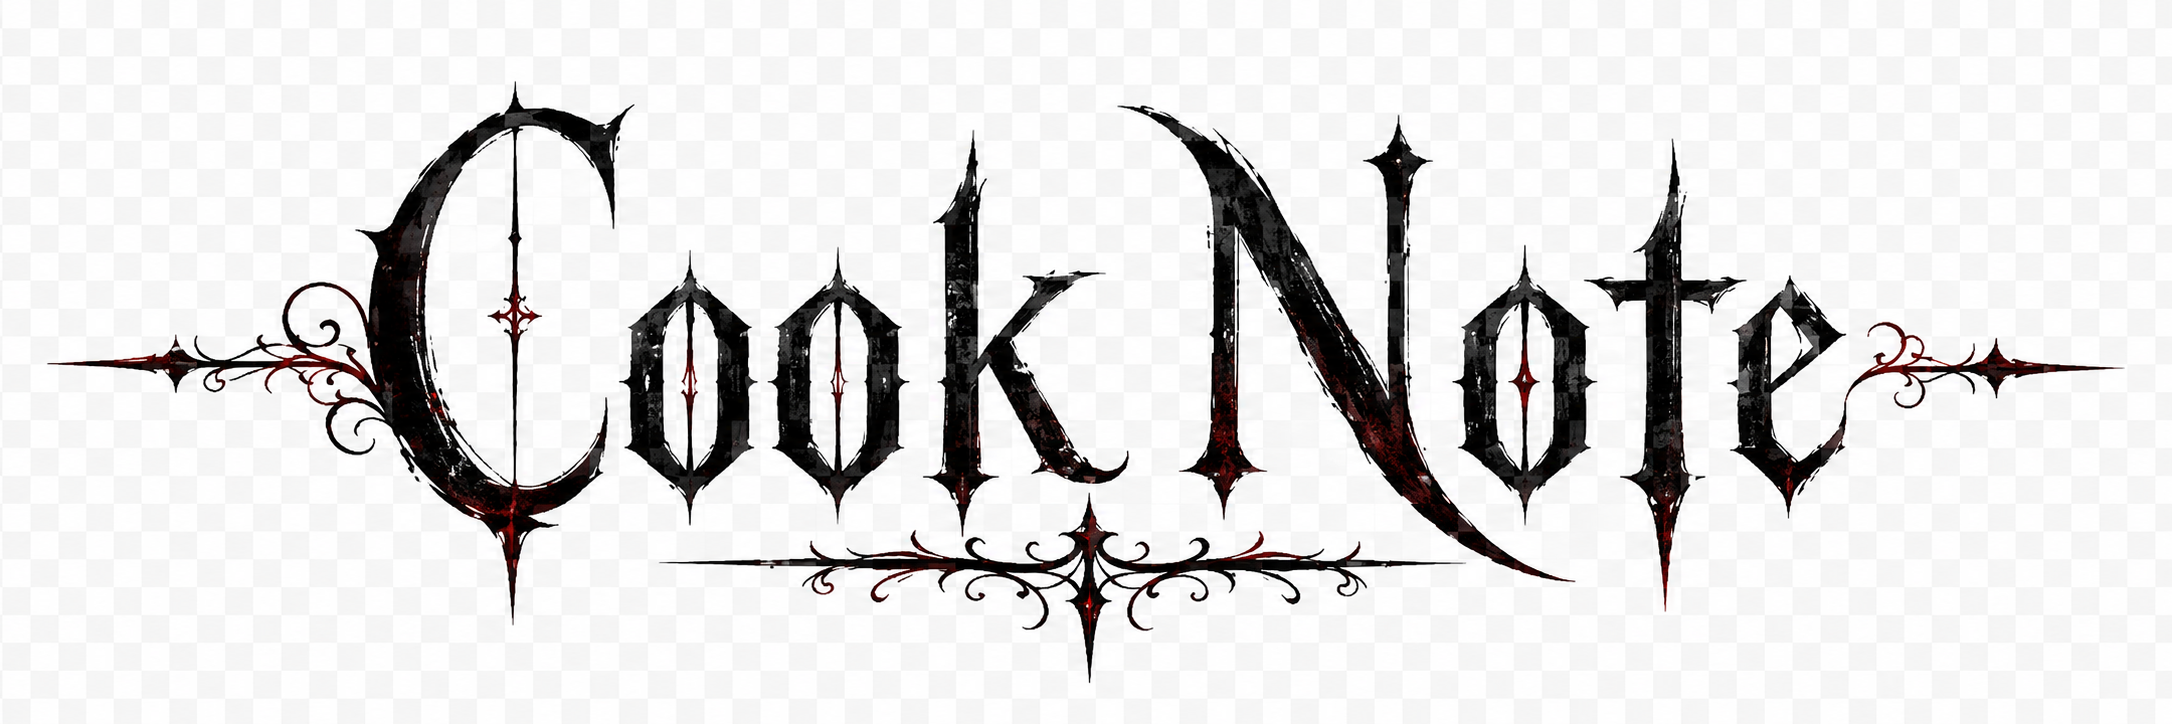
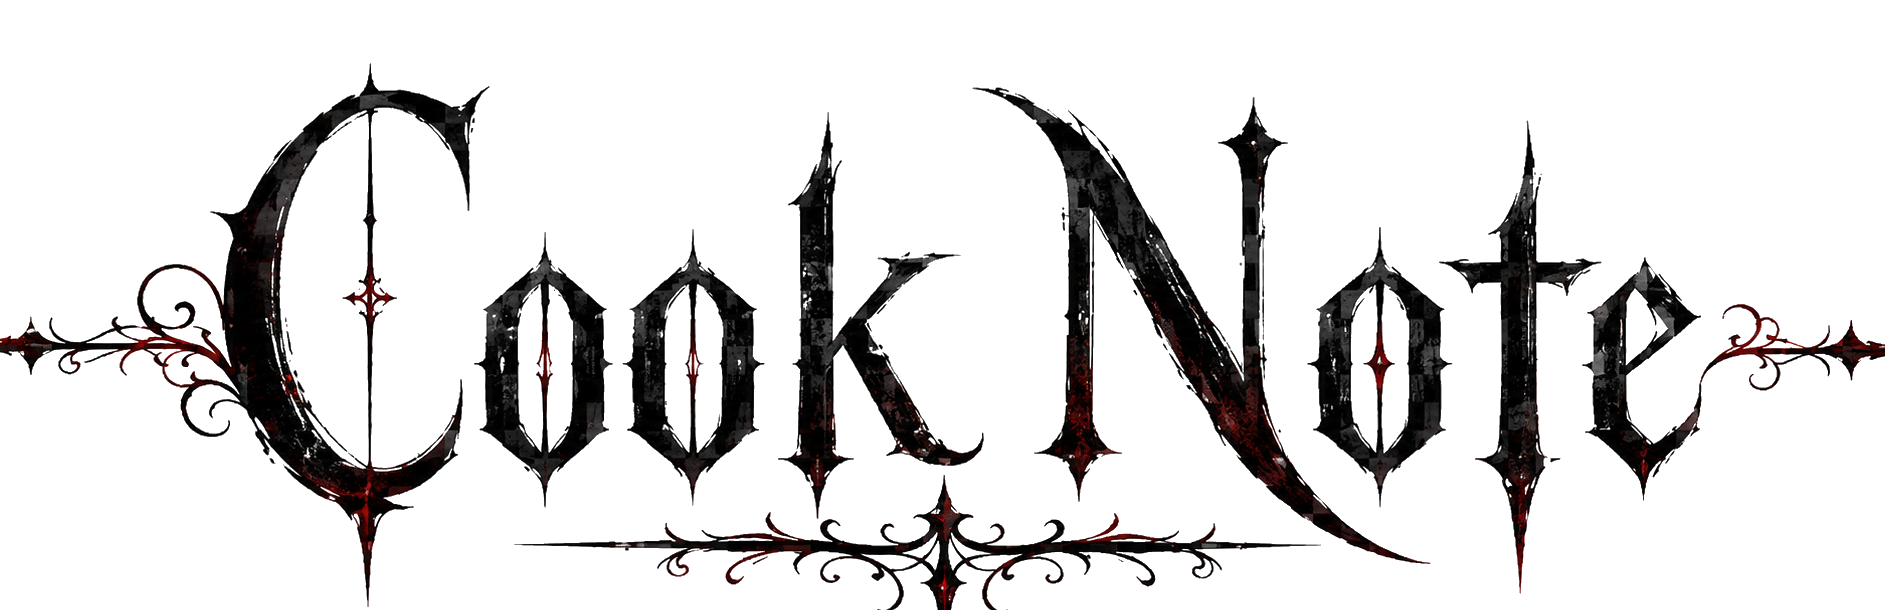
upd

Changed region(s): [[0.0, 0.1246, 1.0, 1.0], [0.7385, 0.9033, 0.7692, 0.9344]]

diff --git a/style.css b/style.css
@@ -349,8 +349,11 @@ a {
 }
 
 .hero-logo {
-  width: min(980px, 92vw);
+  width: min(780px, 84vw);
+  max-height: 170px;
   height: auto;
+  object-fit: contain;
+  filter: drop-shadow(0 16px 30px rgba(0, 0, 0, .55));
 }
 
 .detail-actions,
@@ -845,8 +848,10 @@ a {
 }
 
 .detail-hero-logo {
-  width: min(560px, 78vw);
+  width: min(620px, 78vw);
+  max-height: 150px;
   height: auto;
+  object-fit: contain;
   margin: 0 0 14px;
   filter: drop-shadow(0 18px 32px rgba(0, 0, 0, .52));
 }
